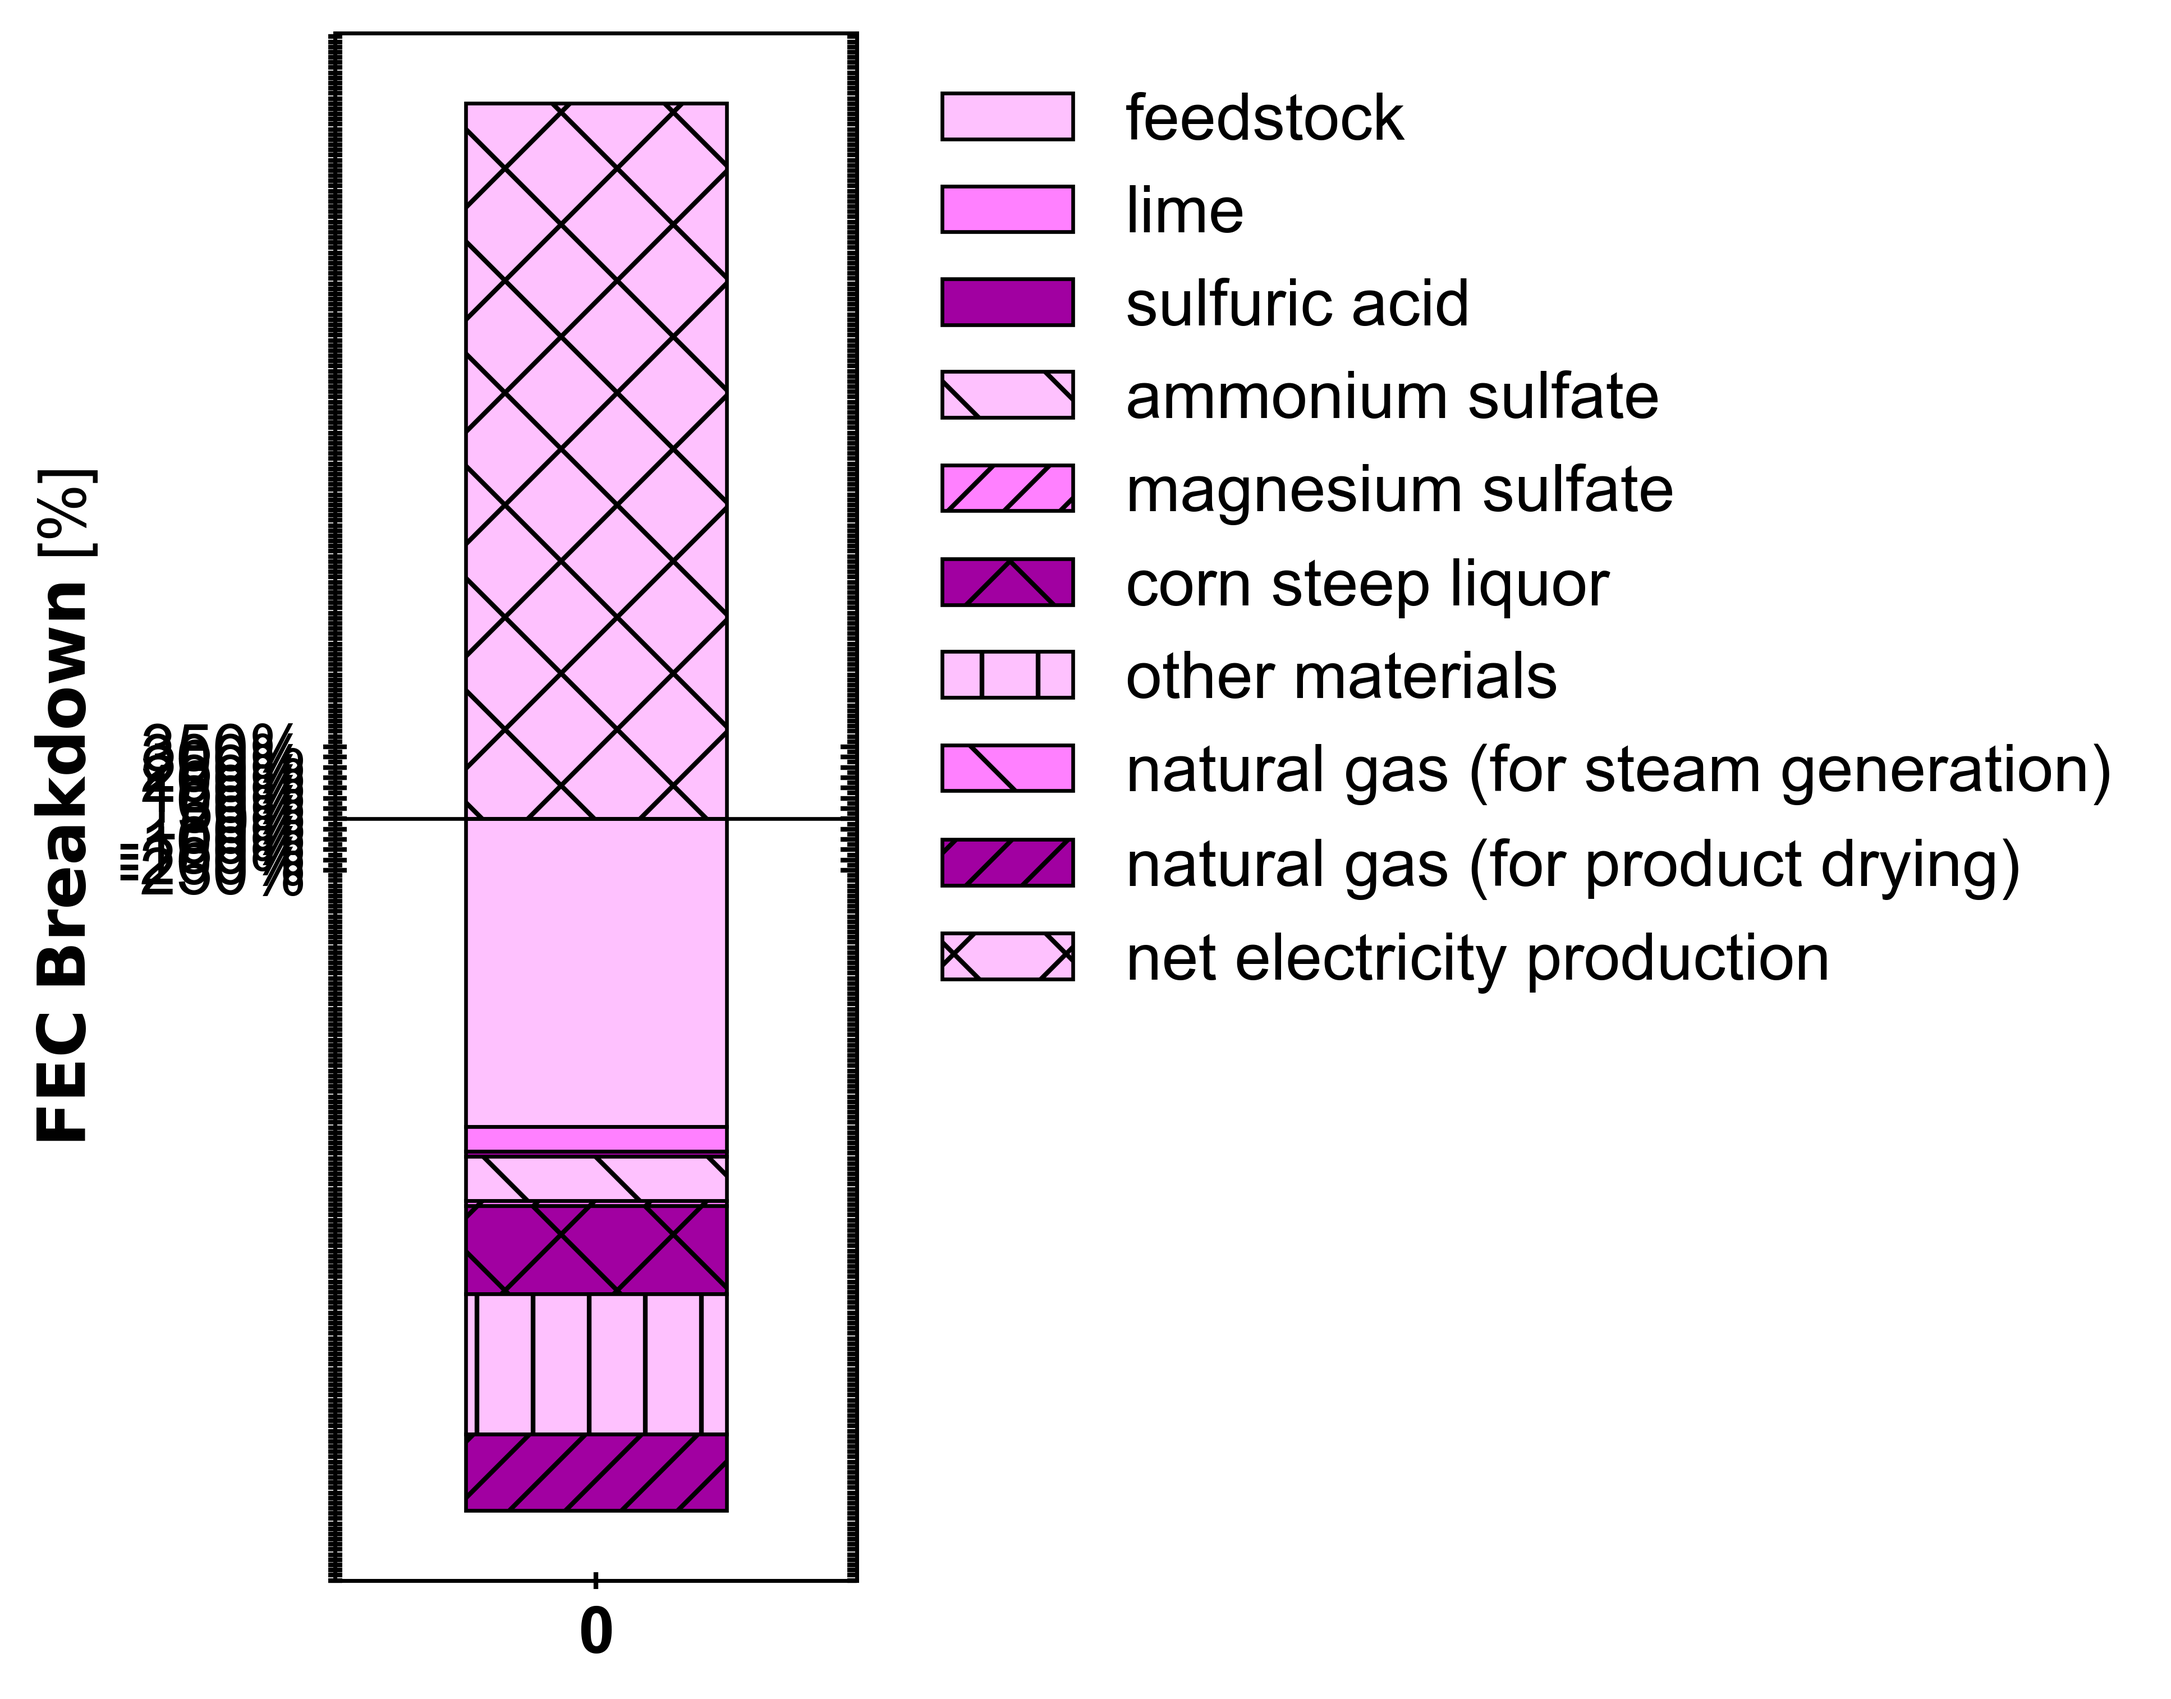
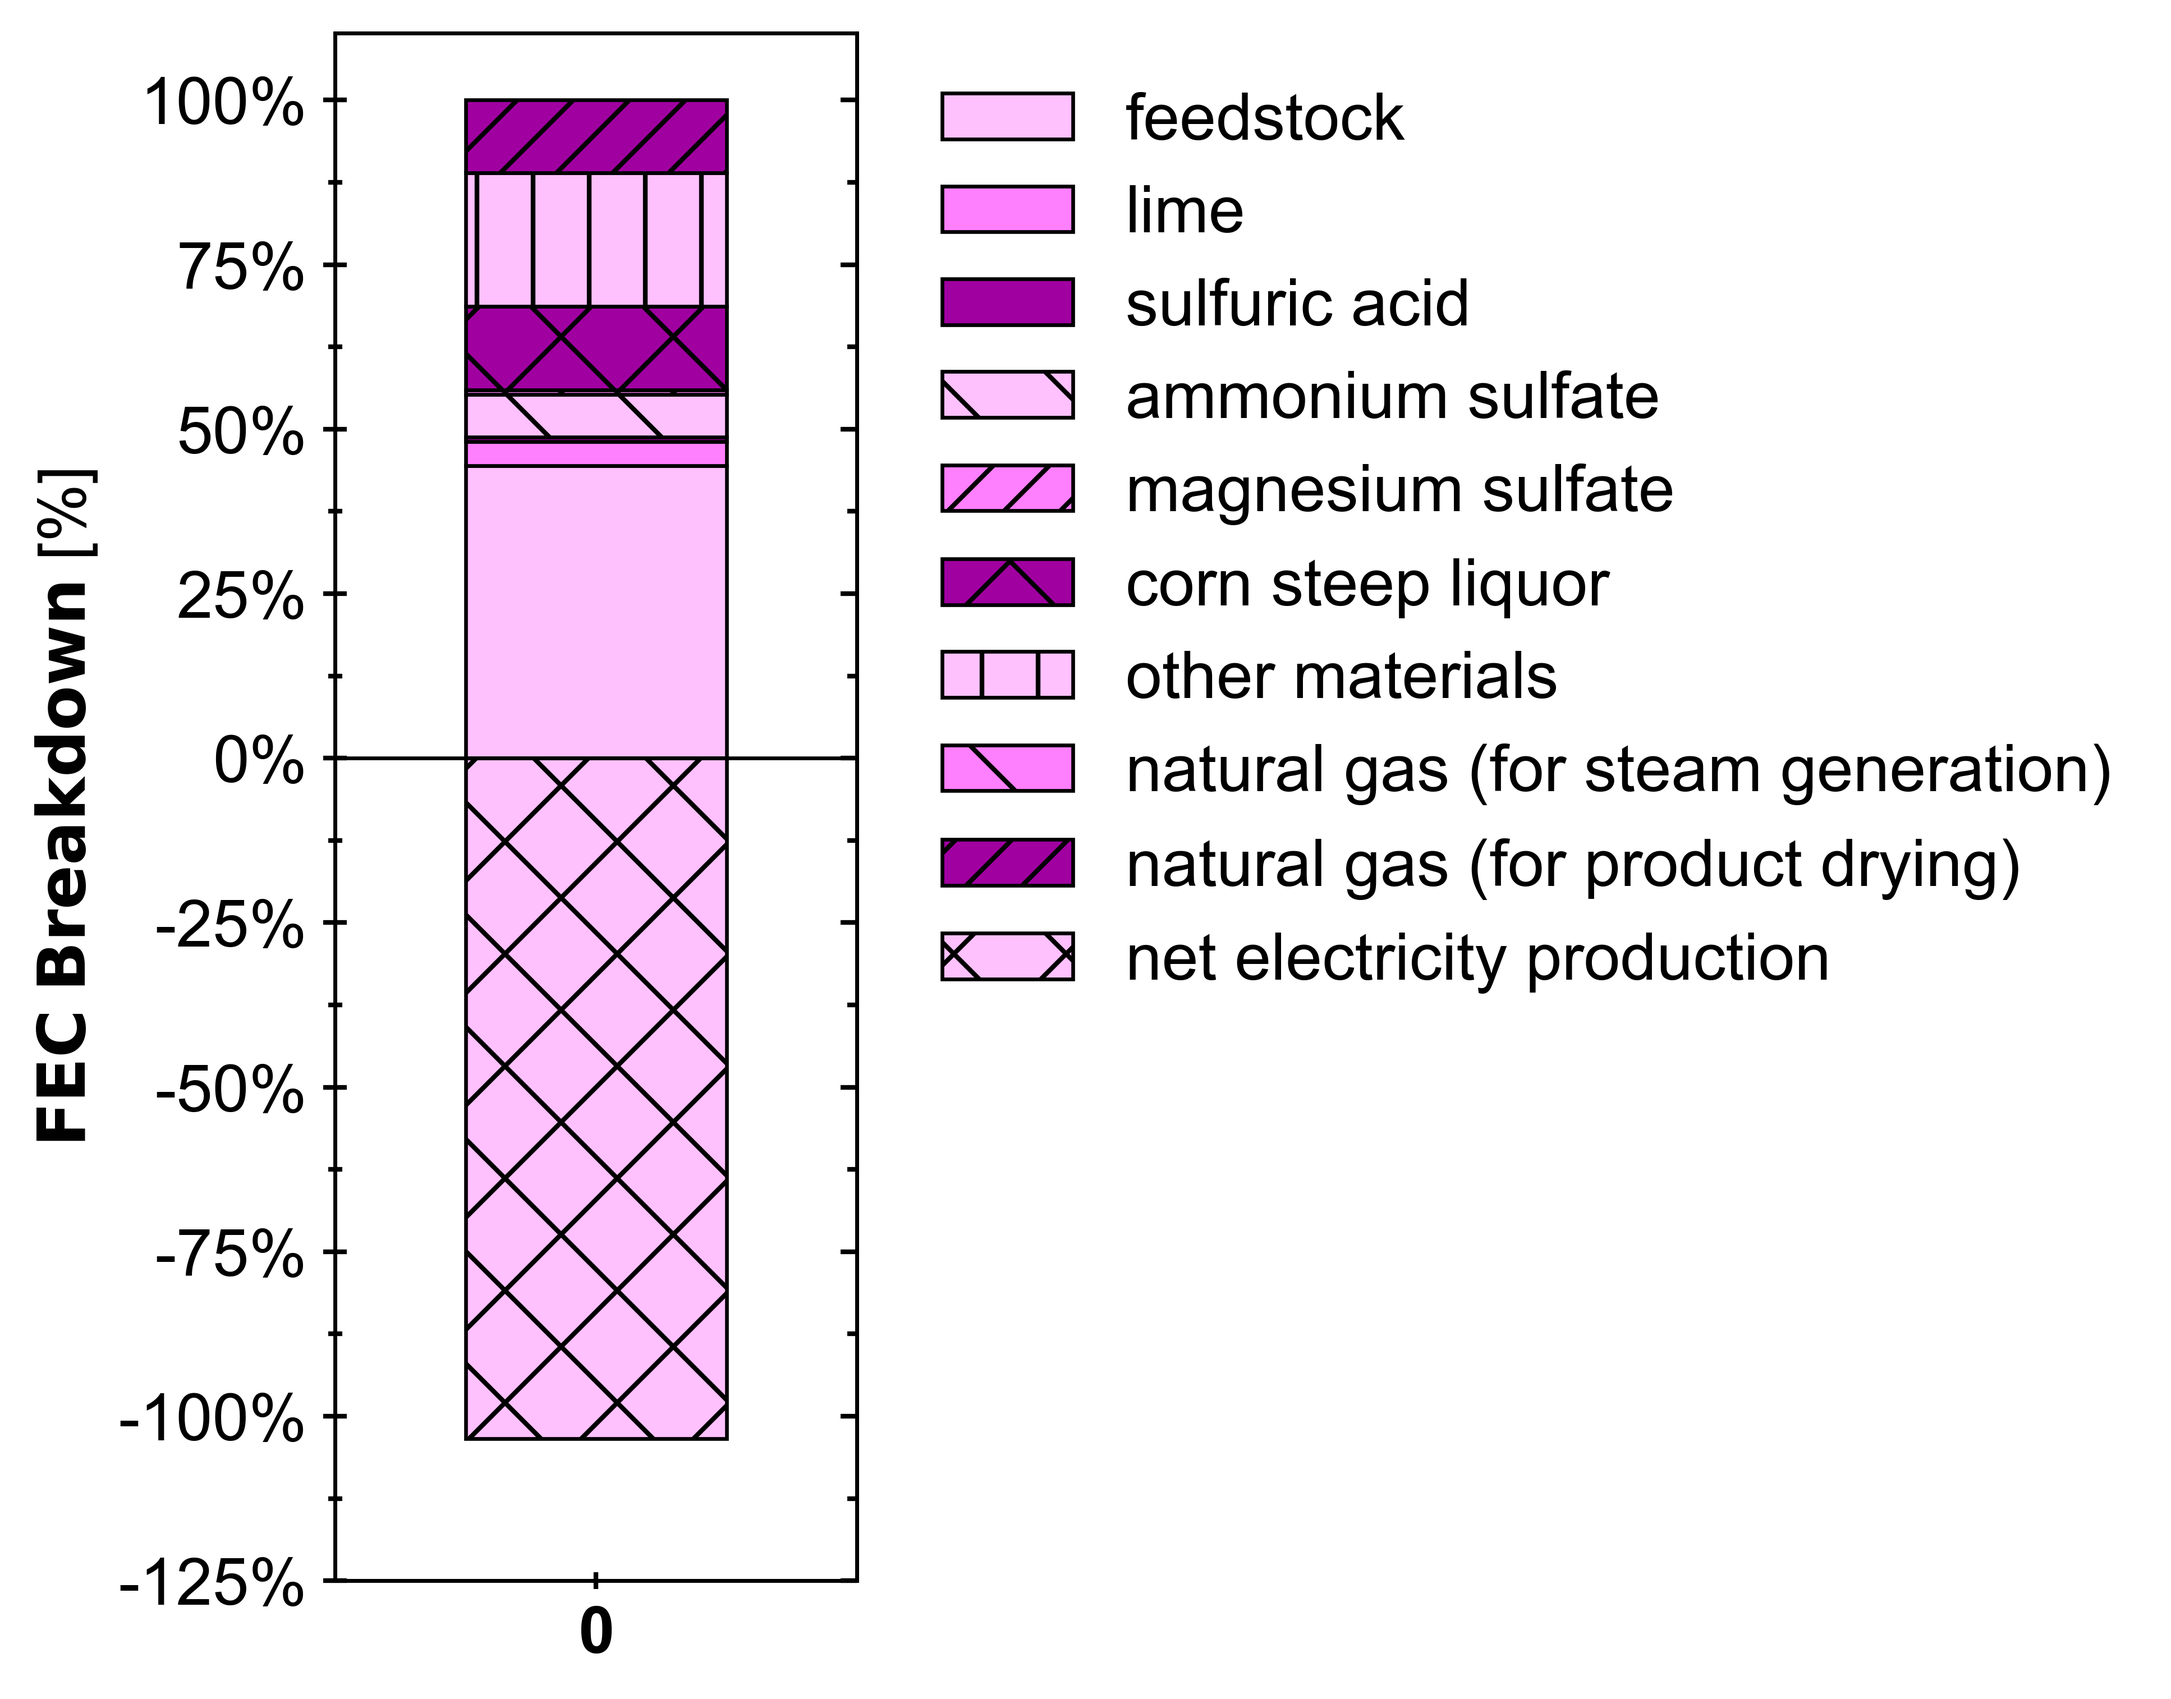
rescale LCA breakdown

diff --git a/biorefineries/succinic/analyses/uncertainties.py b/biorefineries/succinic/analyses/uncertainties.py
@@ -128,6 +128,7 @@ for i in range(len(modes)):
         'direct non-biogenic emissions': lca.direct_emissions_GWP,
         }
     
+    tot_positive_GWP = sum([v for v in results_dict['Baseline']['GWP Breakdown'][mode].values() if v>0])
     for k, v in results_dict['Baseline']['GWP Breakdown'][mode].items():
         results_dict['Baseline']['GWP Breakdown'][mode][k] = v/tot_GWP
       
@@ -390,7 +391,7 @@ df_GWP_breakdown = pd.DataFrame(GWP_breakdown_list,
 # df_GWP_breakdown = df_GWP_breakdown.rename(columns={'Net electricity production': 'Net electricity demand'})
 
 contourplots.stacked_bar_plot(dataframe=df_GWP_breakdown, 
-                  y_ticks=[-50, -25, 0, 25, 50, 75, 100, 125, 150,], 
+                  y_ticks=[-40, -20, 0, 20, 40, 60, 80, 100], 
                   # y_ticks=[-400, -300, -200, -100, 0, 100, 200, 300, 400], 
                  # y_ticks = []
                  # y_label=r"$\bfGWP-100a $" +" "+ r"$\bfBreakdown$",  
@@ -421,7 +422,7 @@ df_FEC_breakdown = pd.DataFrame(FEC_breakdown_list,
 
 contourplots.stacked_bar_plot(dataframe=df_FEC_breakdown, 
                  # y_ticks=[-200, -175, -150, -125, -100, -75, -50, -25, 0, 25, 50, 75, 100, 125, 150, 175], 
-                 y_ticks=[-250, -200, -150, -100, -50, 0, 50, 100, 150, 200, 250, 300, 350], 
+                 y_ticks=[-125, -100, -75, -50, -25, 0, 25, 50, 75, 100], 
                  y_label=r"$\bfFEC$" +" "+ r"$\bfBreakdown$", 
                  y_units = "%", 
                  # colors=['#7BBD84', '#F7C652', '#63C6CE', '#94948C', '#734A8C', '#D1C0E1', '#648496', '#B97A57', '#F8858A', 'magenta'],
